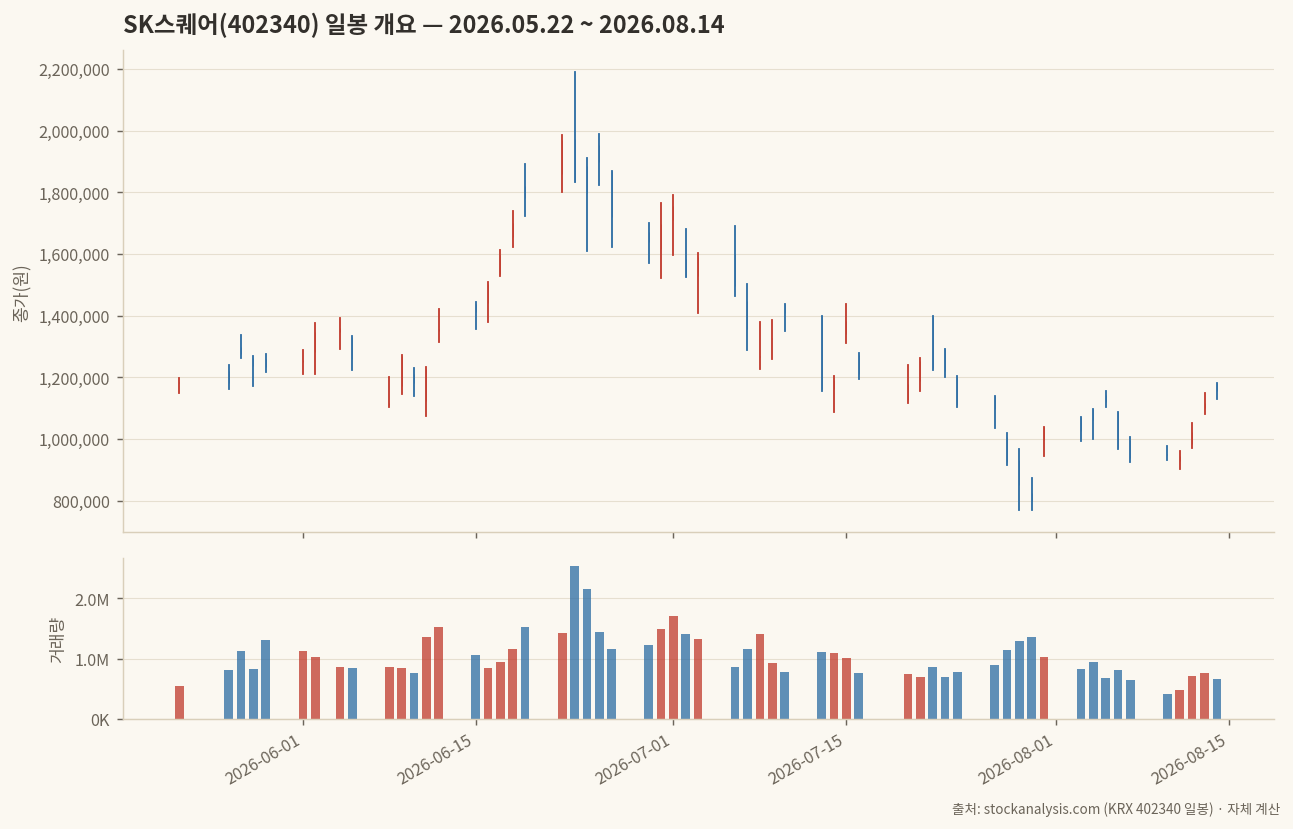
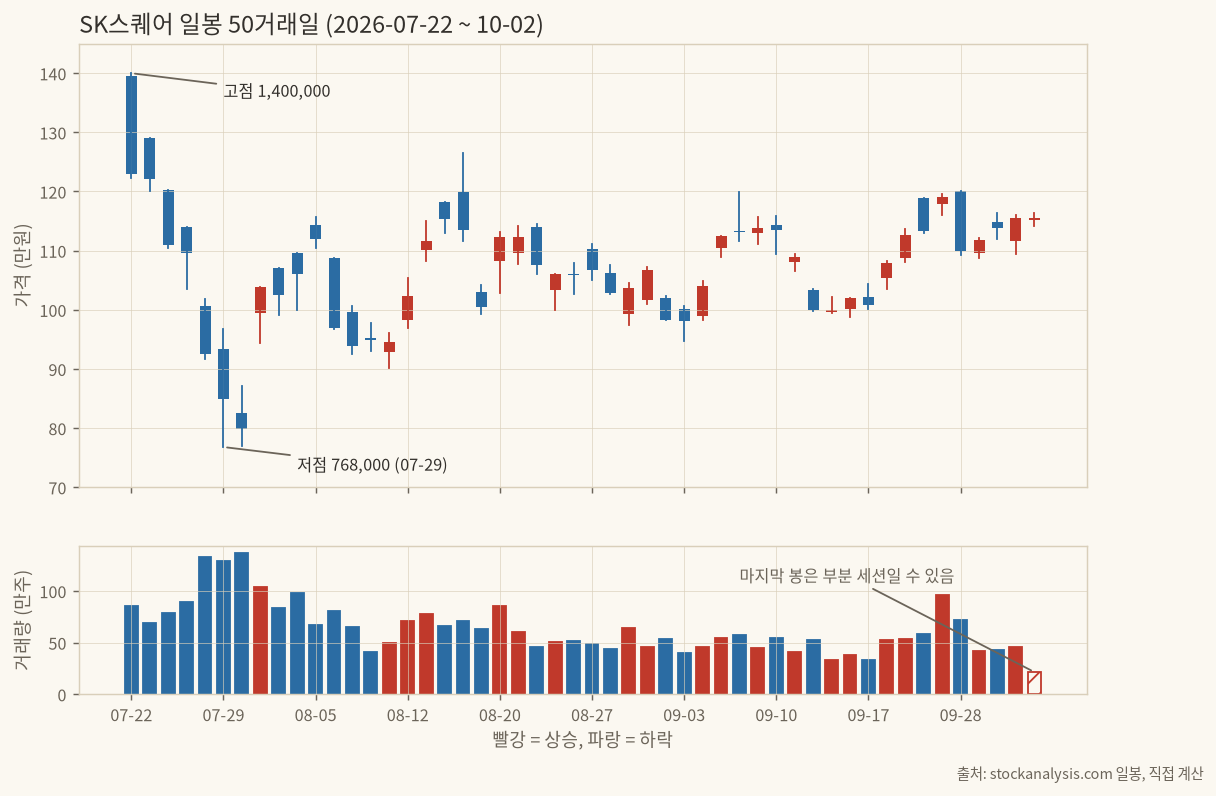
study(N47): publish SK스퀘어 MA Cross

diff --git a/content/study/skq-ma-cross.md b/content/study/skq-ma-cross.md
@@ -1,0 +1,124 @@
+---
+title: "SK스퀘어, 50거래일에 교차 4번 따라 했더니 -5.54%: 이동평균 교차 (MA Cross: SK Square, Four Crosses in 50 Sessions and a -5.54% Follow-Along)"
+description: "SK스퀘어 최근 50거래일 일봉에 SMA 5/20 이동평균 교차를 직접 계산해 골든·데드 4회의 적중과 실패를 전수 점검했다. We tested the SMA 5/20 MA Cross on SK Square's 50 sessions: four signals, one clear hit."
+date: 2026-10-02T08:30:00+09:00
+draft: false
+markets: ["stock"]
+tags: ["지표스터디", "기술적지표", "코스피", "자동매매", "지주", "SK스퀘어"]
+summary: "SK스퀘어 50거래일에서 SMA 5/20 교차는 4번 나왔고, 그대로 따라 한 롱 온리 규칙은 -5.54%로 보유(+15.14%)에 졌다."
+---
+
+이동평균 교차는 가장 오래된 추세 추종 신호 중 하나다. 단기 평균선이 장기 평균선을 아래에서 위로 뚫으면 골든 크로스, 반대로 위에서 아래로 뚫으면 데드 크로스라 부른다. 재는 대상은 가격 평균 두 개의 간격이다. 가격 자체는 직접 재지 않는다. 그래서 신호는 늘 가격보다 늦게 나온다. 이 글은 그 늦음이 실제로 얼마나 비싼지를 한 종목의 최근 구간에 대 보는 기록이다.
+
+종목은 SK스퀘어(402340)다. 고른 이유는 구간의 생김새에 있다. 2026-07-22에 종가 1,230,000원으로 시작한 주가가 일주일 남짓 만에 799,000원까지 내려갔고(종가 기준 -35.04%), 07-31에는 하루에 +29.91%를 올렸다. 이후에는 대략 100만원 안팎에서 오르내렸다. 급락 뒤의 횡보 구간은 이동평균 교차가 가장 자주 속는 환경이라 시험대로 좋다.
+
+<div class="term">
+<div class="term-bar"><i></i><i></i><i></i><em>이 글의 데이터 범위</em></div>
+<pre><code><span class="w">종목</span>      SK스퀘어 (402340)
+<span class="w">구간</span>      2026-07-22 ~ 2026-10-02 (50거래일)
+<span class="w">출처</span>      stockanalysis.com 일봉
+<span class="c">--------------------------------------------------</span>
+<span class="w">최고가</span>    1,400,000원 (07-22, 장중)
+<span class="w">최저가</span>    768,000원 (07-29, 장중)
+<span class="w">종가 고점</span>  1,230,000원 (07-22)
+<span class="w">종가 저점</span>  799,000원 (07-30)
+<span class="w">마지막 종가</span> 1,156,000원 (10-02)
+<span class="w">종가 낙폭</span>  <span class="b">-35.04%</span> (07-22 고점 종가에서 07-30 저점 종가까지)</code></pre>
+</div>
+
+> 이 글은 투자 권유가 아니다. 과거 구간에 지표를 대 본 계산 기록이며, 같은 결과가 다시 나온다는 보장은 없다.
+
+## 먼저 밝힐 한계
+
+받을 수 있었던 일봉은 50거래일이 전부였다. 60거래일에 못 미친다. 이 한계는 지표의 선택을 바로 제한한다. 흔히 쓰는 50일선과 20일선 조합은 50개 봉에서 유효한 값이 딱 한 번 나오므로 교차 자체를 판정할 수 없다. 그래서 단기 5일, 장기 20일로 잡았다. 20일 평균은 20번째 봉에서야 처음 값이 생기는데, 이 구간에서는 2026-08-19이 그날이다. 50개 중 SMA 20이 유효한 봉은 31개이고, 앞 19개는 예열이라 교차를 말할 수 없다. 마지막 봉인 10-02의 거래량(215,533주)은 다른 날보다 유난히 적어 부분 세션일 수 있으므로 거래량으로는 아무것도 주장하지 않는다. 가격만 쓴다.
+
+![SK스퀘어 50거래일 캔들과 거래량](/img/study/skq-01-overview.png)
+
+## 계산식
+
+단순이동평균(SMA)은 최근 n개 종가의 산술평균이다. 교차는 두 평균의 차이 부호가 바뀌는 순간으로 정의했다.
+
+<div class="term">
+<div class="term-bar"><i></i><i></i><i></i><em>MA Cross 정의</em></div>
+<pre><code><span class="w">SMA(n)[t]</span>  = ( C[t] + C[t-1] + ... + C[t-n+1] ) / n
+<span class="w">간격 g[t]</span>   = SMA(5)[t] - SMA(20)[t]
+<span class="c">--------------------------------------------------</span>
+<span class="g">골든</span>  g[t-1] &lt;= 0  이고  g[t] &gt; 0
+<span class="r">데드</span>  g[t-1] &gt;= 0  이고  g[t] &lt; 0
+<span class="c"> </span>
+<span class="w">예</span>  08-31 SMA(5) = (1,060,000 + 1,058,000 + 1,068,000
+          + 1,028,000 + 1,037,000) / 5 = 1,050,200원</code></pre>
+</div>
+
+C는 종가다. 파라미터를 5와 20으로 정한 이유는 두 가지다. 위에서 말한 대로 데이터가 50개뿐이라 장기선을 20보다 길게 잡으면 교차를 볼 구간이 너무 짧아진다. 또 5일은 한 주 거래, 20일은 한 달 거래에 해당하는 관행적 숫자라서 고르는 쪽의 자의가 가장 적다. 신호를 보기 좋게 만들려고 숫자를 돌려 맞추지는 않았다. 다만 그 결과가 나쁘면 파라미터 탓이라는 변명이 열려 있으므로 뒤에서 세 가지 조합을 더 대 본다. 계산은 numpy 로 직접 구현했고 지표 라이브러리는 쓰지 않았다.
+
+![종가와 SMA 5, SMA 20 및 교차 시점](/img/study/skq-02-ma-cross.png)
+
+## 교차 4번 전수 점검
+
+SMA 20이 유효해진 08-19 이후 교차는 정확히 네 번이다. 신호 시점의 종가와, 그 뒤 5거래일째, 10거래일째 종가가 얼마나 움직였는지를 같이 적는다. 골든 뒤에 올랐으면 맞은 것이고, 데드 뒤에 내렸으면 맞은 것이다.
+
+<div class="term">
+<div class="term-bar"><i></i><i></i><i></i><em>SMA 5/20 교차 전수</em></div>
+<pre><code><span class="w">날짜    구분  종가        SMA 5       SMA 20      5일후     10일후</span>
+<span class="c">--------------------------------------------------------------------</span>
+08-31   <span class="r">데드</span>  1,037,000   1,050,200   1,050,700   +8.49%    -3.57%
+09-09   <span class="g">골든</span>  1,138,000   1,083,200   1,073,600   -10.37%   +4.57%
+09-16   <span class="r">데드</span>  1,020,000   1,048,800   1,064,100   +16.67%   +13.33%
+09-22   <span class="g">골든</span>  1,133,000   1,073,400   1,062,350   +1.94%    없음</code></pre>
+</div>
+
+첫 신호인 08-31 데드 크로스는 간격이 -500원이다. 100만원대 주식에서 0.05%에 불과한 차이로 부호가 뒤집힌 것이다. 이 정도 간격은 신호라기보다 두 선이 겹쳐 있다는 표시에 가깝고, 5일 뒤 가격은 +8.49%로 반대 방향이었다. 틀렸다. 10일 뒤에는 -3.57%로 돌아섰지만 그 사이에 이미 매도한 사람은 손해를 본 뒤다.
+
+09-09 골든은 5일 뒤 -10.37%였다. 틀렸다. 10일째에 +4.57%로 회복해 겉으로는 맞은 것처럼 보이지만, 그 사이 09-16 종가 1,020,000원까지 밀린 구간을 견뎌야 했다. 09-16 데드는 더 나쁘다. 5일 뒤 +16.67%, 10일 뒤 +13.33%다. 가장 크게 틀린 신호이고, 데드를 보고 판 사람은 반등 거의 전부를 놓쳤다. 마지막 09-22 골든만 5일 뒤 +1.94%로 방향이 맞았다. 4번 중 5일 기준으로 맞은 것은 1번이다. 10일 기준으로는 09-22가 아직 10거래일이 지나지 않아 판정을 못 한다.
+
+![SMA 5와 SMA 20의 간격](/img/study/skq-03-gap.png)
+
+간격 그림을 보면 이유가 보인다. 간격이 0선 근처에서 몇 거래일 머물다 뒤집히는 모습이 반복된다. 평균선 두 개가 방향 없이 겹쳐 도는 횡보장에서는 교차는 추세 전환보다 잡음에 가깝다. 그리고 놓친 신호도 하나 있다. 09-28에 주가가 -7.56%(종가 1,100,000원) 빠졌는데, 그날도 SMA 5(1,125,800원)는 SMA 20(1,070,550원) 위에 있어서 어떤 경고도 나오지 않았다. 지표가 말을 안 한 날이 가장 크게 움직인 날이었다.
+
+## 상태가 얼마나 오래 갔나
+
+교차 사이에 한 상태가 유지된 길이도 세어 봤다. SMA 5가 위에 있던 구간이 8거래일, 아래가 7거래일, 위가 5거래일, 아래가 4거래일, 마지막으로 위가 7거래일이다. 추세 추종 지표가 값을 하려면 한 상태가 적어도 수 주는 이어져야 하는데, 이 구간의 가장 긴 상태가 8거래일이다. 상태가 바뀔 때마다 가격은 이미 한 번 크게 움직인 뒤였고, 평균선이 따라잡았을 때는 반대로 가는 중이었다. 평균에 평균을 겹친 값이라 늦는 것이 설계상 당연하다. 문제는 늦음의 크기가 상태의 길이와 맞먹었다는 점이다.
+
+## 규칙으로 만들어 보면
+
+신호를 그대로 따르는 가장 단순한 규칙을 세웠다. 전날 종가 기준으로 SMA 5가 SMA 20 위에 있으면 다음 날 보유하고, 아래면 현금으로 둔다. 08-19 종가(1,004,000원)에서 시작해 10-02 종가(1,156,000원)까지 이 규칙을 적용하면 누적 -5.54%다. 같은 기간 그냥 들고 있었다면 +15.14%다. 규칙이 20.68%포인트 졌다. 31개 봉 가운데 SMA 5가 위에 있던 날은 20일, 아래에 있던 날은 11일이다. 수수료와 세금은 넣지 않았으므로 실제로는 이보다 더 나쁘다. 표본이 31일뿐이라 이 숫자로 지표 전체를 판결할 수는 없다. 이 구간에서 졌다는 사실만 확정이다.
+
+## 파라미터를 바꾸면
+
+같은 50일에 조합을 바꿔 교차 횟수와 적중을 세어 봤다.
+
+<div class="term">
+<div class="term-bar"><i></i><i></i><i></i><em>파라미터 민감도</em></div>
+<pre><code><span class="w">조합       유효 봉   교차   5일 기준 적중</span>
+<span class="c">--------------------------------------------</span>
+SMA 5/20   31개      4회    1회
+SMA 5/10   41개      7회    3회
+SMA 3/10   41개      6회    3회
+SMA 10/30  21개      2회    판정 불가</code></pre>
+</div>
+
+SMA 5/10은 교차가 7번 나왔고 5일 기준으로 3번 맞았다. 08-06 골든이 +15.15%로 맞았고, 08-27 데드가 -8.15%로 맞았고, 09-22 골든이 +1.94%였다. 반대로 08-12 데드(+9.67%)와 08-14 골든(-6.76%), 09-08 골든(-11.58%), 09-16 데드(+16.67%)는 틀렸다. 맞은 비율이 5/20보다 나아 보이지만 신호가 7번뿐이고 반 이상이 틀렸다. SMA 10/30은 21개 봉에서 교차가 09-28 데드와 09-30 골든 두 번 나왔는데 이틀 간격이라 앞의 신호가 곧바로 부정당했다. 뒤로 5거래일이 남지 않아 적중은 판정하지 않았다. SMA 3/10은 6번 나왔고 3번 맞았다. 08-10 데드(+19.60%)와 09-07 골든(-11.11%), 09-15 데드(+13.30%)가 틀렸고, 08-13 골든(+0.54%)과 08-26 데드(-7.18%), 09-22 골든(+1.94%)이 맞았다. 절반이다. 동전 던지기와 구별이 안 되는 숫자다.
+
+![파라미터별 교차 시점 비교](/img/study/skq-04-sensitivity.png)
+
+결국 파라미터를 바꾼다고 교차가 갑자기 믿을 만해지지는 않는다. 짧게 잡으면 신호가 늘고 대부분 잡음이다. 길게 잡으면 신호가 사라진다. 이 50일에서는 어느 쪽도 쓸 만한 답을 주지 못했다.
+
+## 봇 게이트에 넣을 것인가
+
+단독 진입 조건으로는 넣지 않는다. 이 구간의 결과는 4번 중 1번 적중, 따라 한 규칙은 -5.54%였다. 다만 쓸모가 없다고 잘라 말하기는 이르다. 이 구간은 급락 직후의 횡보였고, 추세가 길게 이어지는 구간에서는 같은 지표가 다른 얼굴을 보일 수 있다. 가능성이 있는 쓰임은 필터다. 예를 들어 두 평균의 간격이 일정 크기(가령 가격의 1%) 아래일 때는 교차 신호를 무시하는 식이다. 08-31 데드가 0.05% 간격이었다는 점을 생각하면 그런 필터가 첫 오신호를 걸러냈을 것이다. 다만 그 1%라는 숫자는 이 글에서 검증하지 않았고, 다음 구간에서 따로 시험해야 한다.
+
+## 남는 것
+
+이번 구간에서 남길 것은 둘이다. 하나는 간격이 아주 작은 교차는 신호로 세지 않는 편이 낫다는 점이다. 다른 하나는 가장 크게 움직인 날(09-28의 -7.56%)에 이 지표가 아무 말도 하지 않았다는 점이다. 이동평균 교차는 이미 시작된 움직임을 확인해 주는 도구이고, 움직임을 예고하는 도구가 아니다.
+
+해결하지 못한 숙제도 있다. 데이터가 50거래일이라 SMA 50 같은 장기 조합은 아예 시험하지 못했다. 이 종목에서 더 긴 구간, 더 긴 평균선으로 같은 계산을 하면 결과가 어떻게 달라지는지는 다음에 확인할 일이다. 간격 필터가 실제로 효과가 있는지도 그때 같이 본다.
+
+이 글은 투자 판단의 근거로 쓰라고 쓴 것이 아니다. 모든 매매 판단과 그 결과는 본인의 몫이다.
+
+## 약어 풀이
+
+\* 이 글에 나온 영어 약어를 풀어 둔다.
+
+- **SMA** (Simple Moving Average): 단순이동평균. 최근 n개 종가를 더해 n으로 나눈 값.
+- **MA** (Moving Average): 이동평균. 일정 기간 가격의 평균을 이어 그린 선.
